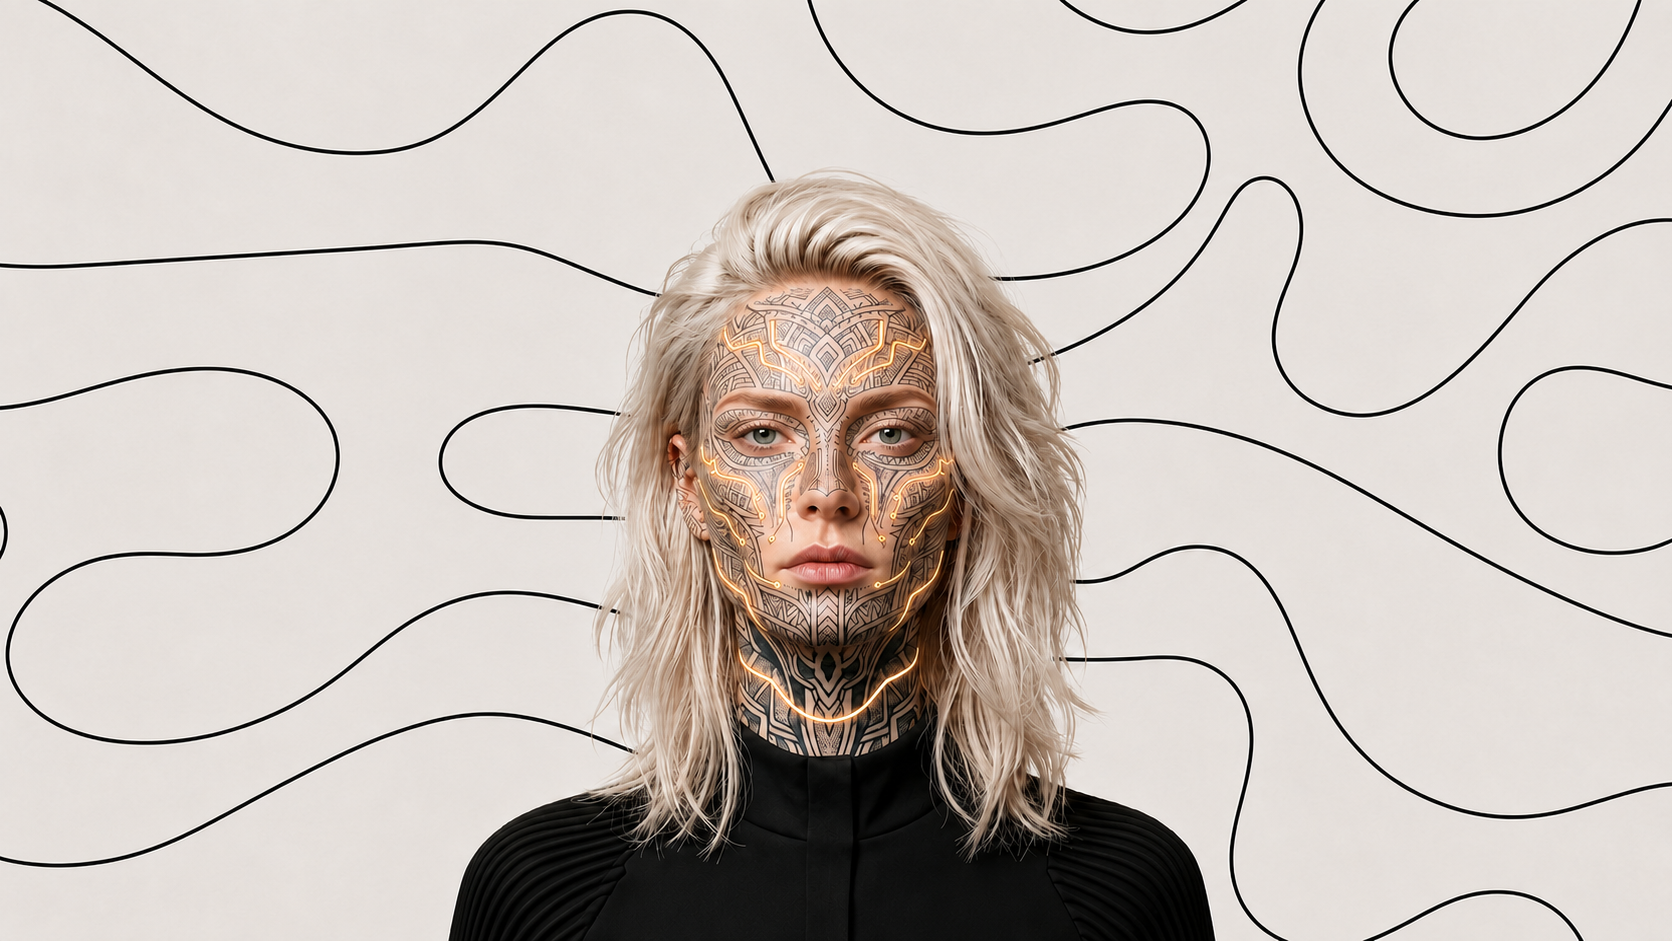
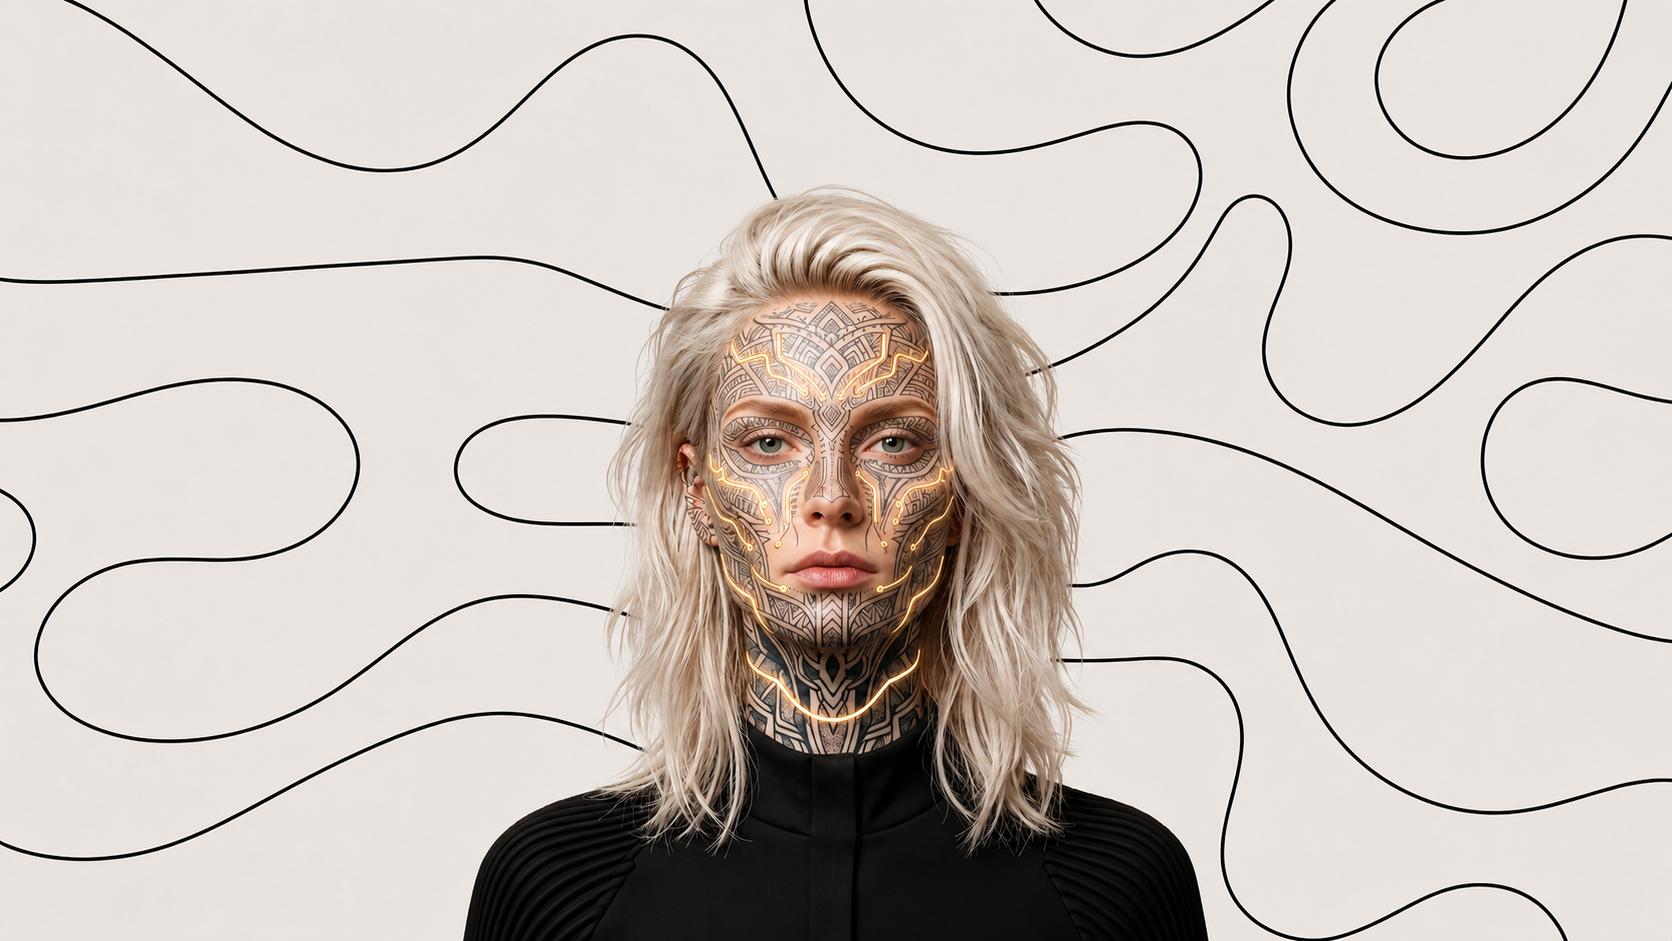
hero match

diff --git a/src/components/HeroReveal.tsx b/src/components/HeroReveal.tsx
@@ -238,12 +238,7 @@ export function HeroReveal() {
       bottomTextureSize,
       (tex) => {
         displayMaterial.uniforms.uBottomTexture.value = tex;
-      },
-      {
-        offsetY: 32,
-        scale: 0.98,
-      },
-    );
+      },);
 
     /* ----- input ----- */
     function rectOf(): DOMRect {